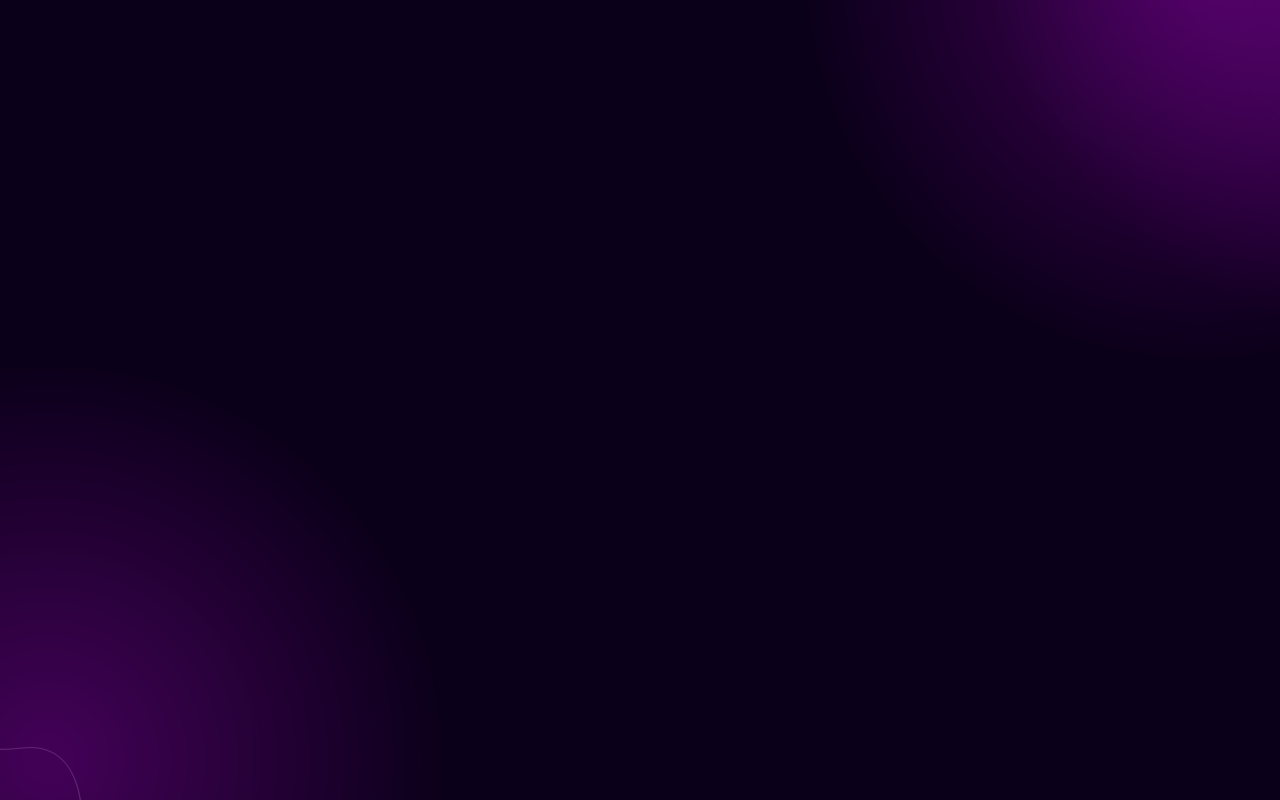
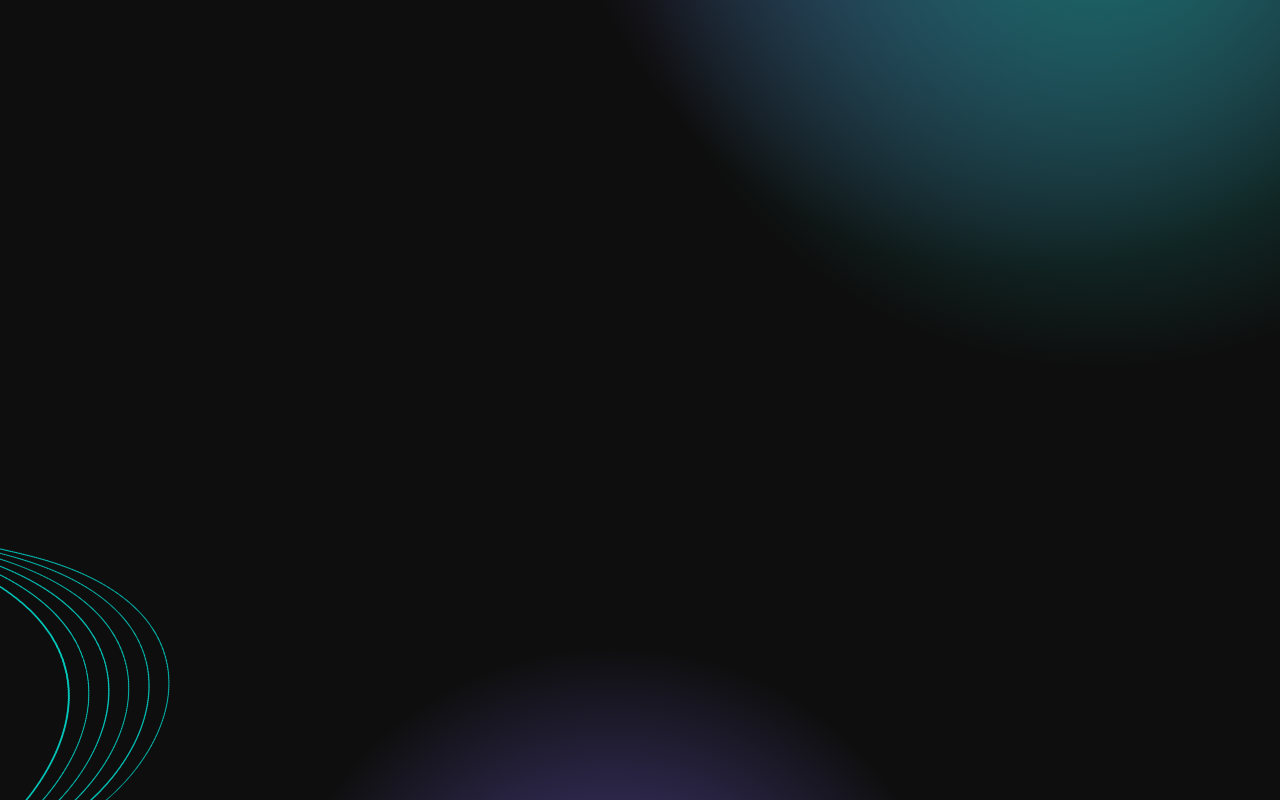
updated UI and Theme

Changed region(s): [[0.5, 0.0, 1.0, 0.4062], [0.0, 0.5312, 0.3125, 1.0], [0.3125, 0.875, 0.6562, 1.0]]

diff --git a/app/src/components/Navbar.css b/app/src/components/Navbar.css
@@ -1,19 +1,15 @@
-@import url('https://fonts.googleapis.com/css2?family=Roboto:wght@900&display=swap');
-
-@font-face {
-    font-family: 'TT Interphases';
-    src: url('../resources/TT Interphases Pro Trial Bold.ttf') format('truetype');
-    font-weight: 900;
-    font-style: normal;
-}
-
+@import url('https://fonts.googleapis.com/css2?family=Poppins:wght@400;700&display=swap');
 
 .navbar {
+    font-family: 'Poppins', sans-serif;
     border-radius: 15px;
     padding: 5px 20px;
     /* background: linear-gradient(to right, #23146b, #63035b); */
-    background: linear-gradient(to right, #23146b, #130433);
+    /* background: linear-gradient(to right, #23146b, #130433); */
     /* background: linear-gradient(to right, #525151, #262626); */
+    background: linear-gradient(to right, #525151, #000);
+    background: linear-gradient(to right, #3d3d3d, #000);
+
     opacity: 1;
     border: 1px solid rgb(72, 49, 109);
     display: flex;
@@ -35,21 +31,16 @@
 }
 
 h5 {
-    font-family: 'TT Interphases', sans-serif;
-    font-weight: 900;
+    font-family: 'Poppins', sans-serif;
+    font-weight: 700;
     font-size: 1.2rem;
     color: white;
     margin: 0;
     margin-right: 20px;
 }
 
-
 .navbar-logo {
     max-height: 50px;
-    margin-right: auto;
-}
-
-.navbar-logo {
     width: 50px;
     margin-right: 10px;
 }
@@ -66,7 +57,7 @@ h5 {
 .container {
     padding-top: 30px;
     justify-content: space-between;
-    font-family: 'Exo 2', sans-serif;
+    font-family: 'Poppins', sans-serif;
 }
 
 @media (min-width: 991px) {
@@ -109,6 +100,4 @@ h5 {
         justify-content: flex-end;
         align-items: center;
     }
-
-
 }

diff --git a/app/src/App.css b/app/src/App.css
@@ -1,7 +1,8 @@
 .App {
   text-align: center;
   /* background-image: url('./resources/mainbg.png'); */
-  background-color: black;
+  background-image: url('./resources/mainbg2.png');
+  /* background-color: black; */
   background-size: cover;
   background-position: center;
   font-family: 'Exo 2', sans-serif;
@@ -9,8 +10,9 @@
 }
 
 body {
-  background-image: url('./resources/mainbg.png');
-  /* background-color: black; */
+  /* background-image: url('./resources/mainbg.png'); */
+  background-image: url('./resources/mainbg2.png');
+  background-color: black;
   background-size: cover;
   background-position: center;
   font-family: 'Exo 2', sans-serif;
@@ -28,6 +30,14 @@ body {
 .card:hover {
   cursor: pointer;
   background-image: url('./resources/cardtoogle.jpg');
+  /* background-image: url('./resources/cardtoogle1.jpg'); */
+
+}
+
+.card {
+  background-image: url('./resources/cardtoogle.jpg');
+  background-image: url('./resources/cardtoogle1.jpg');
+
 }
 
 .eventheader .col {

diff --git a/app/src/components/Card.css b/app/src/components/Card.css
@@ -1,8 +1,8 @@
 .card {
     width: 18rem;
     border: 1px solid #fff;
-    border-radius: 20px;
-    border-color: rgb(73, 62, 74);
+    border-radius: 12px;
+    border-color: rgb(172, 154, 172);
     background-color: rgba(94, 94, 99, 0.228);
     color: #fff;
     overflow: hidden;
@@ -11,8 +11,8 @@
 }
 
 .card:hover {
-    max-height: 450px;
-    width: 19rem;
+    max-height: 600px;
+    width: 20rem;
 }
 
 .card-img-top {
@@ -37,6 +37,7 @@
 
 .btn-primary {
     background-color: #0056b3;
+    background-color: #1314149c;
     color: #fff;
     border: none;
     padding: 8px 16px;
@@ -48,5 +49,5 @@
 
 .btn-primary:hover {
     color: #eff0f1;
-    background-color: #0c4691
+    background-color: #9c20b89a
 }

diff --git a/app/src/App.js b/app/src/App.js
@@ -29,7 +29,7 @@ function App() {
           <Card src={markp} title="Mark Attendance" btnctn="Click Here" onClick={handleMarkAttendanceClick} />
         </div>
         <div className="col text-center">
-          <Card src={db} title="Access Live  Database" btnctn="Click Here" />
+          <Card src={db} title="Access Database" btnctn="Click Here" />
         </div>
       </div>
       {showWebcam && <WebcamComponent onClose={handleCloseWebcam} />}
